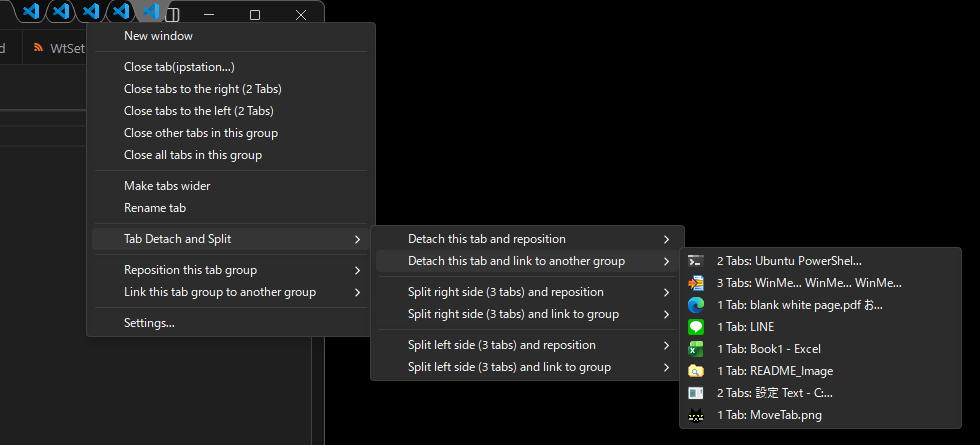
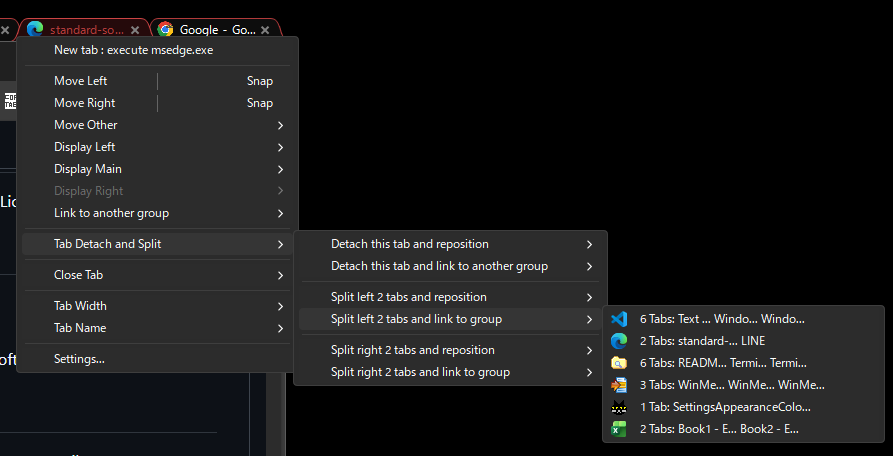
- Update README.md and README_Japanese.md

diff --git a/README.md b/README.md
@@ -106,32 +106,33 @@ This feature remains unchanged from the original WindowTabs functionality.
 ### Tab Management
 
 - **Tab Context Menu**: Right-click on tabs to access various options
-  - New window
-  - Close tabs (this tab, tabs to the right, tabs to the left, other tabs, all tabs)
+  - New tab
   ---
-  - Make tabs wider / Make tabs narrower
-  - Rename tab
+  - Move Left / Move Right (with Snap)
+  - Move Other
+  ---
+  - Display Left / Display Main / Display Right
+  ---
+  - Link to another group
   ---
   - Tab Detach and Split (submenu)
-    - Detach this tab and reposition
-    - Detach this tab and link to another group
-    ---
-    - Split right / left side and reposition
-    - Split right / left side and link to group
   ---
-  - Reposition this tab group
-  - Link this tab group to another group
+  - Close Tab (submenu: this tab, tabs to the left/right, other tabs, all tabs)
+  ---
+  - Tab Width (wider / narrower)
+  - Tab Name (rename)
   ---
   - Settings
 
 ![Popup Menu](README_Image/PopupMenu.png)
+![Popup Menu](README_Image/PopupMenuCloseTab.png)
+
 
 ### Tab Detach and Split
 
 The "Tab Detach and Split" submenu provides powerful tab management options:
 
 ![Tab Detach and Split Move Position](README_Image/DetachTab.png)
-![Tab Detach and Split Snap Position](README_Image/SnapPosition.png)
 
 #### Reposition
 
@@ -270,6 +271,8 @@ Configure which programs should use tabs and auto-grouping behavior.
 Customize the visual appearance of tabs:
 - Height, width, and overlap settings (with separate reset buttons per control)
 - Distance from edge settings
+- Menu Dark Mode toggle
+- Combined Move and Snap Menu: displays Move and Snap as a single combined line in the context menu
 - Color settings for each tab state (Inactive, Mouse Over, Active, Flash)
   - Tab color, text color, and border color
 - Color theme with preset themes (Light, Light Mono, Dark, Dark Blue, Dark Mono, Dark Red Frame)
@@ -284,23 +287,10 @@ Customize the visual appearance of tabs:
 ### Behavior Tab
 
 Configure tab behavior:
-- Tab position (left/center/right)
-- Tab width (narrow/wide) default
-- Toggle tab width on active tab icon double-click
-- Hide tabs when positioned at bottom (never/always/double-click)
-- Delay before hiding tabs
-- Hide tabs when window is fullscreen
-- Auto-grouping settings
-- Hotkey settings (Ctrl+1...+9 for tab activation)
-- Mouse hover activation
 
 ![Settings Behavior](README_Image/SettingsBehavior.png)
 
 ### Workspace Tab
-
-This feature remains unchanged from the original WindowTabs functionality.
-
-### Diagnostics Tab
 
 This feature remains unchanged from the original WindowTabs functionality.
 

diff --git a/version.md b/version.md
@@ -22,6 +22,7 @@
   - Replace rename/restore items with "Tab Name" submenu (reset is always shown but disabled when not renamed)
   - Stop rendering renamed tab names in italic font
   - Confirm rename when input field loses focus (instead of canceling)
+- Update README.md and README_Japanese.md
 
 ## version ss_jp_2026.02.12
 - Re-release: The ZIP in version ss_jp_2026.02.11 contained a non-working exe.
